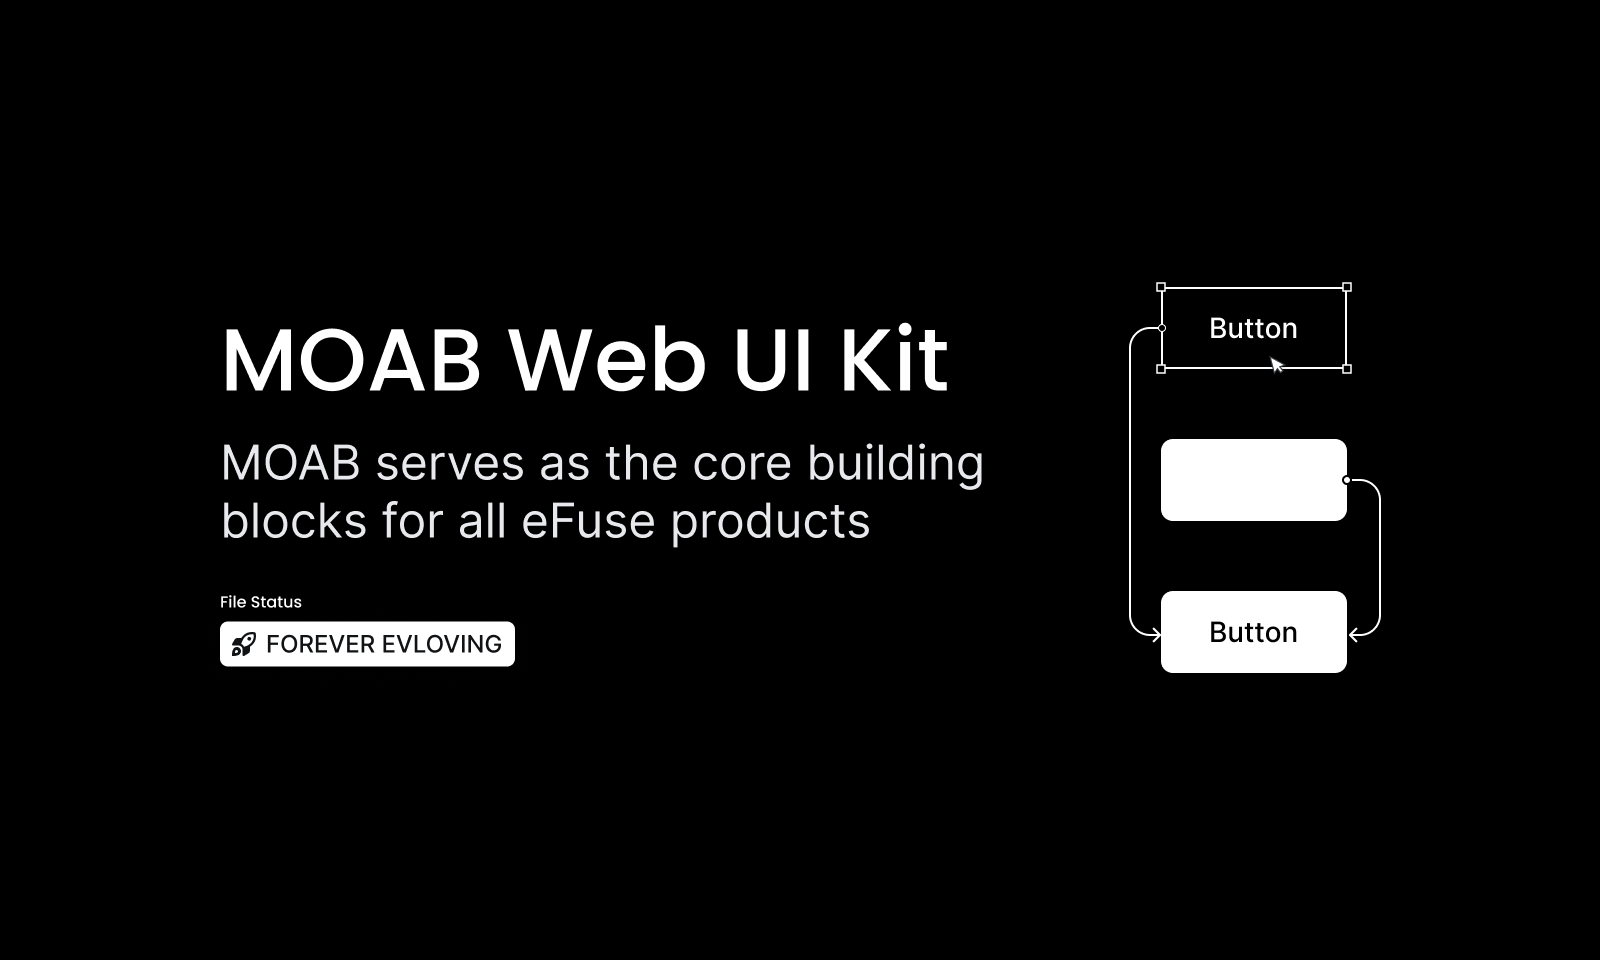
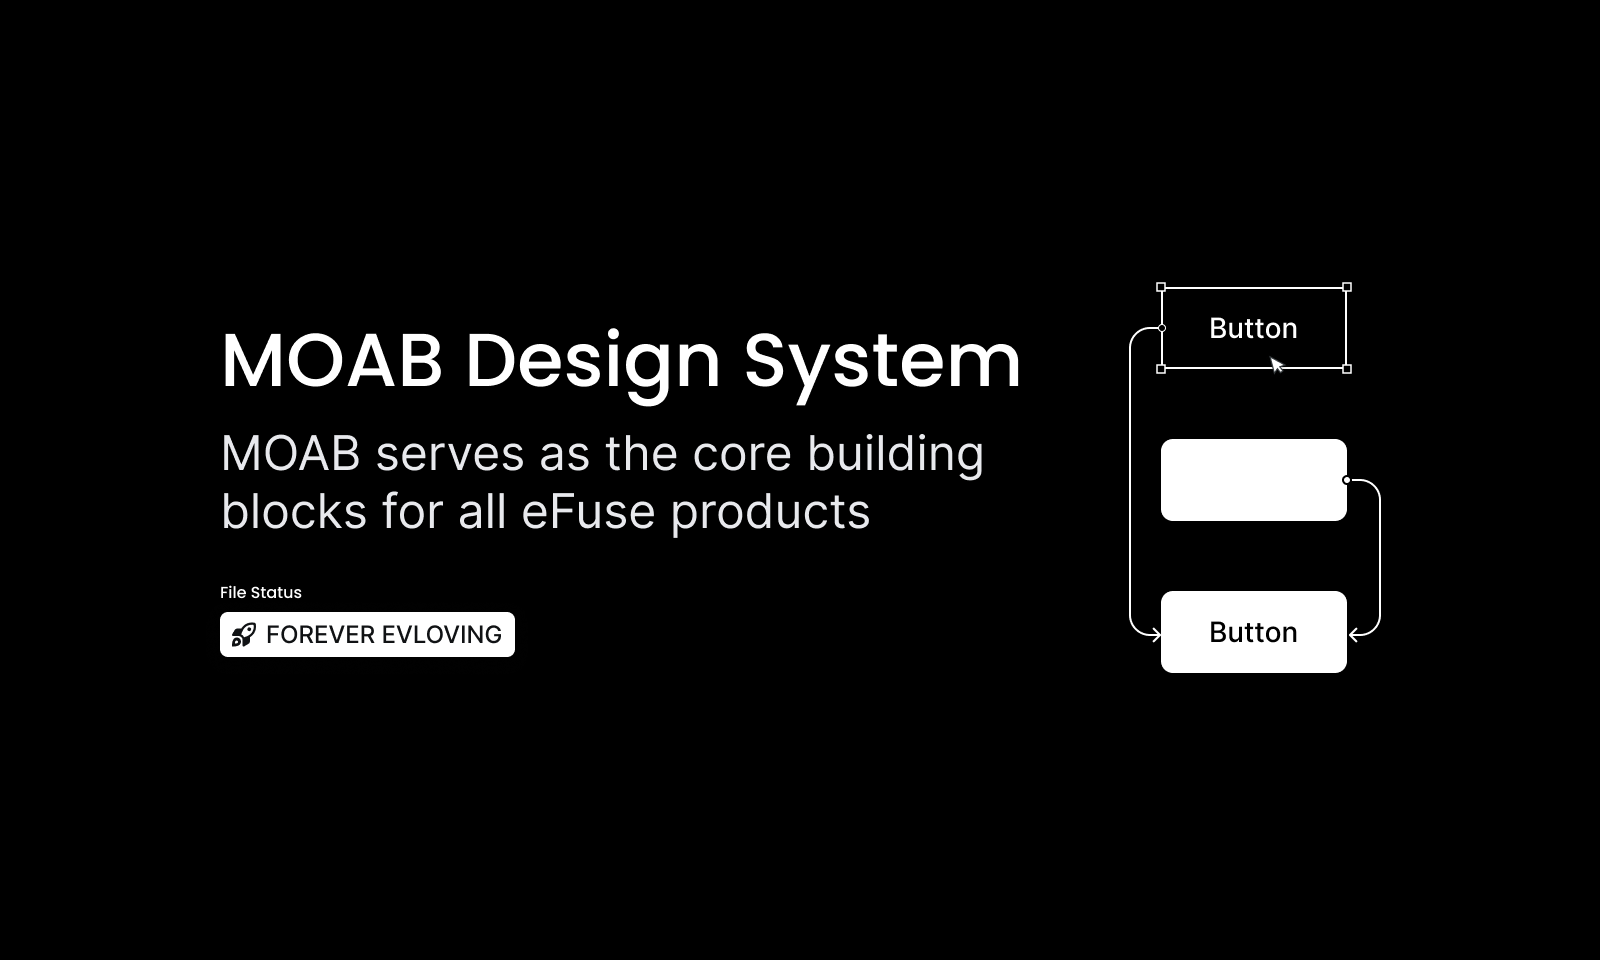
Added MOAB project

Changed region(s): [[0.125, 0.3438, 0.6562, 0.5625], [0.125, 0.5938, 0.3438, 0.7188]]

diff --git a/src/css/style.css b/src/css/style.css
@@ -633,6 +633,11 @@ Responsive header
     background: linear-gradient(rgba(255,255,255,0.4) -4.16%, rgba(194,220,254,.3) 49.59%);
 }
 
+#MOAB:hover {
+    background-image: linear-gradient(rgba(255, 255, 255, 0.2), rgba(18, 81, 90, 0.4)), url("/assets/projects/MOAB/hover.png");
+    background-size: cover;
+}
+
 .project-details p {
     font-size: 1.25rem;
     line-height: 200%;

diff --git a/src/projects/MOAB.md b/src/projects/MOAB.md
@@ -1,11 +1,11 @@
 ---
-eleventyExcludeFromCollections: true
+# eleventyExcludeFromCollections: true
 title: MOAB Design System
-description: "An extension of the core eRena product to provide a better eSports fan experience, by bringing the content directly to the streams people are watching."
+description: "eFuse design system introduced to help product design and engineering teams build product features more quickly and consistently"
 problem: ""
 client: MOAB
 image: moab.png
-logo: logo.svg
+logo: moab.svg
 responsibilities:
     - System Education & Governance
     - Component Creation & Maintenance 
@@ -26,6 +26,7 @@ issues:
 ---
 <section>
 
+## What I did
 I most recently worked with eFuse, an eSports startup with a mission to change lives through gaming. My role was to help drive  Design System adoption, education, and governance, as well as design new features to support the eRena tournament platform. 
 
 My role on this project had me working closely with another product designer, and engineers to transition from a Figma component library to a robust system maintained in code to save time and resources for eFuse.
@@ -62,7 +63,7 @@ The MOAB design system is structured with a core foundation library, style libra
 ![MOAB Design System Structure](/assets/projects/moab/structure.svg)
 *Breakdown of the design system structure*
 
-It’s worth mentioning, this decision to split Web components from product specific was to allow for custom implementations across different products that served different users and functions, while still providing consistency within the larger design style and visual language.
+The decision to split Web components from product specific was to allow for custom implementations across different products that served different users and functions, while still providing consistency within the larger design style and visual language.
 </section>
 <section>
 
